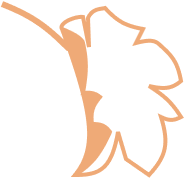
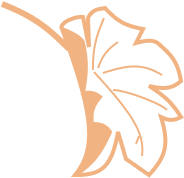
Update the Mini App design

Changed region(s): [[0.4891, 0.0843, 0.8967, 0.8708], [0.8696, 0.5899, 0.9239, 0.618]]

diff --git a/web_app/ll.css b/web_app/ll.css
@@ -13,18 +13,71 @@ html {
 
 * {
     box-sizing: border-box;
+}a {
+    color: inherit; /* Наследует цвет текста от родителя */
 }
+
+
 
 body {
     margin: 0;
     min-height: 100vh;
-    /*background-color: #fbdc9d;*/
-    background: linear-gradient(180deg, #E8813E, #FBDC9D);
-    background-image: url('img/l1.png'), url('img/l2.png'), url('img/l3.png'), linear-gradient(180deg, #E8813E, #FBDC9D);
-    background-position: 8% 10%, 40% 29%, 95% 15%, center;
-    background-repeat: no-repeat, no-repeat, no-repeat, no-repeat; 
-    background-size:  30%, 30%, 33%,  cover; 
-    background-attachment: fixed, fixed, fixed, fixed; 
+    background-image: linear-gradient(0deg, #7E69B0 0%, #A27189 28.87%, #E8813E 100%);
+    background-position: center;
+    background-size:  cover; 
+    background-attachment: fixed; 
+    background-repeat: no-repeat; 
+}
+.bg-image1 {
+    position: absolute;
+    top: 7%;
+    left: 5%;
+    width: auto;
+    height: auto;
+    z-index: 0;
+}
+.bg-image2 {
+    position: absolute;
+    top: 14%;
+    right: 40%;
+    width: auto;
+    height: auto;
+    z-index: 0;
+}
+.bg-image3 {
+    position: absolute;
+    top: 10%;
+    right: 16px;
+    width: auto;
+    height: auto;
+    z-index: 0;
+}
+.bg-image4 {
+    position: absolute;
+    top: 28%;
+    right: 11%;
+    width: auto;
+    height: auto;
+    z-index: 0;
+}
+.bg-image5 {
+    position: absolute;
+    top: 30%;
+    left: 7%;
+    transform: rotate(145deg);
+    width: auto;
+    height: auto;
+    z-index: 0;
+}
+
+.bg-image6 {
+    position: absolute;
+    top: 40%;
+    left: 25%;
+    transform: rotate(145deg);
+    width: auto;
+    height: auto;
+    z-index: 0;
 }
 
 .container {
@@ -88,8 +141,9 @@ img {
     height: 100%;
     width: 100%;
     border-radius: 18px;
-    background-color: #ce925b;
-    border: 2px solid #ab794d;
+    border-radius: 18px;
+    border: 2px solid #834B2B;    
+    background: linear-gradient(0deg, #CE5A3C 0%, #FFBF60 100%);
     position: absolute;
     transform-style: preserve-3d;
     box-shadow: 0px 4px 4px 0px rgba(0, 0, 0, 0.25);

diff --git a/web_app/ll.html b/web_app/ll.html
@@ -4,13 +4,19 @@
         <meta charset="utf-8"/>
         <title>Lingo Link</title>
         <meta content="width=device-width, initial-scale=1" name="viewport"/>
-        <link href="ll.css?ver=10" rel="stylesheet" type="text/css"/>
+        <link href="ll.css?ver=14" rel="stylesheet" type="text/css"/>
         <link href="https://fonts.googleapis.com" rel="preconnect"/>
         <link href="https://fonts.gstatic.com" rel="preconnect" crossorigin="anonymous"/>
         <link href="img/favicon.ico" rel="shortcut icon" type="image/x-icon"/>
         <link href="img/webclip.png" rel="apple-touch-icon"/>
     </head>
-    <body class="body">
+    <body>
+        <img src="img/l1.png" srcset="img/l1.png 2x" class="bg-image1">
+        <img src="img/l2.png" srcset="img/l2.png 2x" class="bg-image2">
+        <img src="img/l3.png" srcset="img/l3.png 2x" class="bg-image3">
+        <img src="img/l4.png" srcset="img/l4.png 2x" class="bg-image4">
+        <img src="img/l5.png" srcset="img/l5.png 2x" class="bg-image5">
+        <img src="img/l3.png" srcset="img/l3.png 2x" class="bg-image6">
         <div class="container" id="container">
             <div class="hdr">
                 <div class="speaker">                    
@@ -68,6 +74,6 @@
     <script src="https://hammerjs.github.io/dist/hammer.js"></script>
     <script src="https://cdnjs.cloudflare.com/ajax/libs/gsap/3.12.2/gsap.min.js"></script>
     <script src="https://telegram.org/js/telegram-web-app.js"></script>
-    <script src="ll.js?ver=10"></script>
+    <script src="ll.js?ver=14"></script>
 </html>
 

diff --git a/web_app/ll.js b/web_app/ll.js
@@ -1,4 +1,4 @@
-const VER = 10
+const VER = 14
 
 class Card {
     constructor(cid, direction, foreignW, nativeW, example) {
@@ -269,15 +269,12 @@ ws.addEventListener('open', () => {
   startConn()
 });
 
-ws.addEventListener('close', () => {
-    console.log("close ws");
-    tg.close()
-});
-
+cmd_reload=0;
 ws.addEventListener('message', (event) => {
     const receivedData = JSON.parse(event.data);
     console.log("Rx data:", receivedData);
     if (receivedData.type === "cmd-reload") {
+        cmd_reload=1;
         window.location.reload(true);
     }
     else if (receivedData.type === "tren-data") {
@@ -295,6 +292,12 @@ ws.addEventListener('message', (event) => {
     
     updateCardUI(downFlash, cardSet.getNextCard())
     downFlash.style.zIndex = -2;
+});
+
+ws.addEventListener('close', () => {
+    console.log("close ws");
+    if (!cmd_reload)
+        tg.close()
 });
 
 

diff --git a/webapp_hook.py b/webapp_hook.py
@@ -10,7 +10,7 @@ from urllib.parse import parse_qs
 from card import Word, TrainingCard, TrainingCardSet
 from user_config import User
 
-WA_VER=10
+WA_VER=11
 
 
 webapp_skey=None
@@ -115,8 +115,9 @@ async def websocket_handler(request):
                         old_ws = active_connections.get(user_id, None)
                         logger.warning(f"WA: second connections. close previous ws connection.")
                         await close_ws(old_ws) #close previous connection
-                    wa_ver=parsed_data.get('ver')
-                    if wa_ver<WA_VER:
+                    wa_ver=parsed_data.get('ver') 
+                    logger.warning(f"WA: wa_ver={wa_ver}")
+                    if wa_ver is None or wa_ver<WA_VER:
                         logger.error(f"WA: version from client={wa_ver} is less the actual={WA_VER}. Try to reload")
                         try:
                             await ws.send_str(json.dumps({ 'type': 'reload'}))
